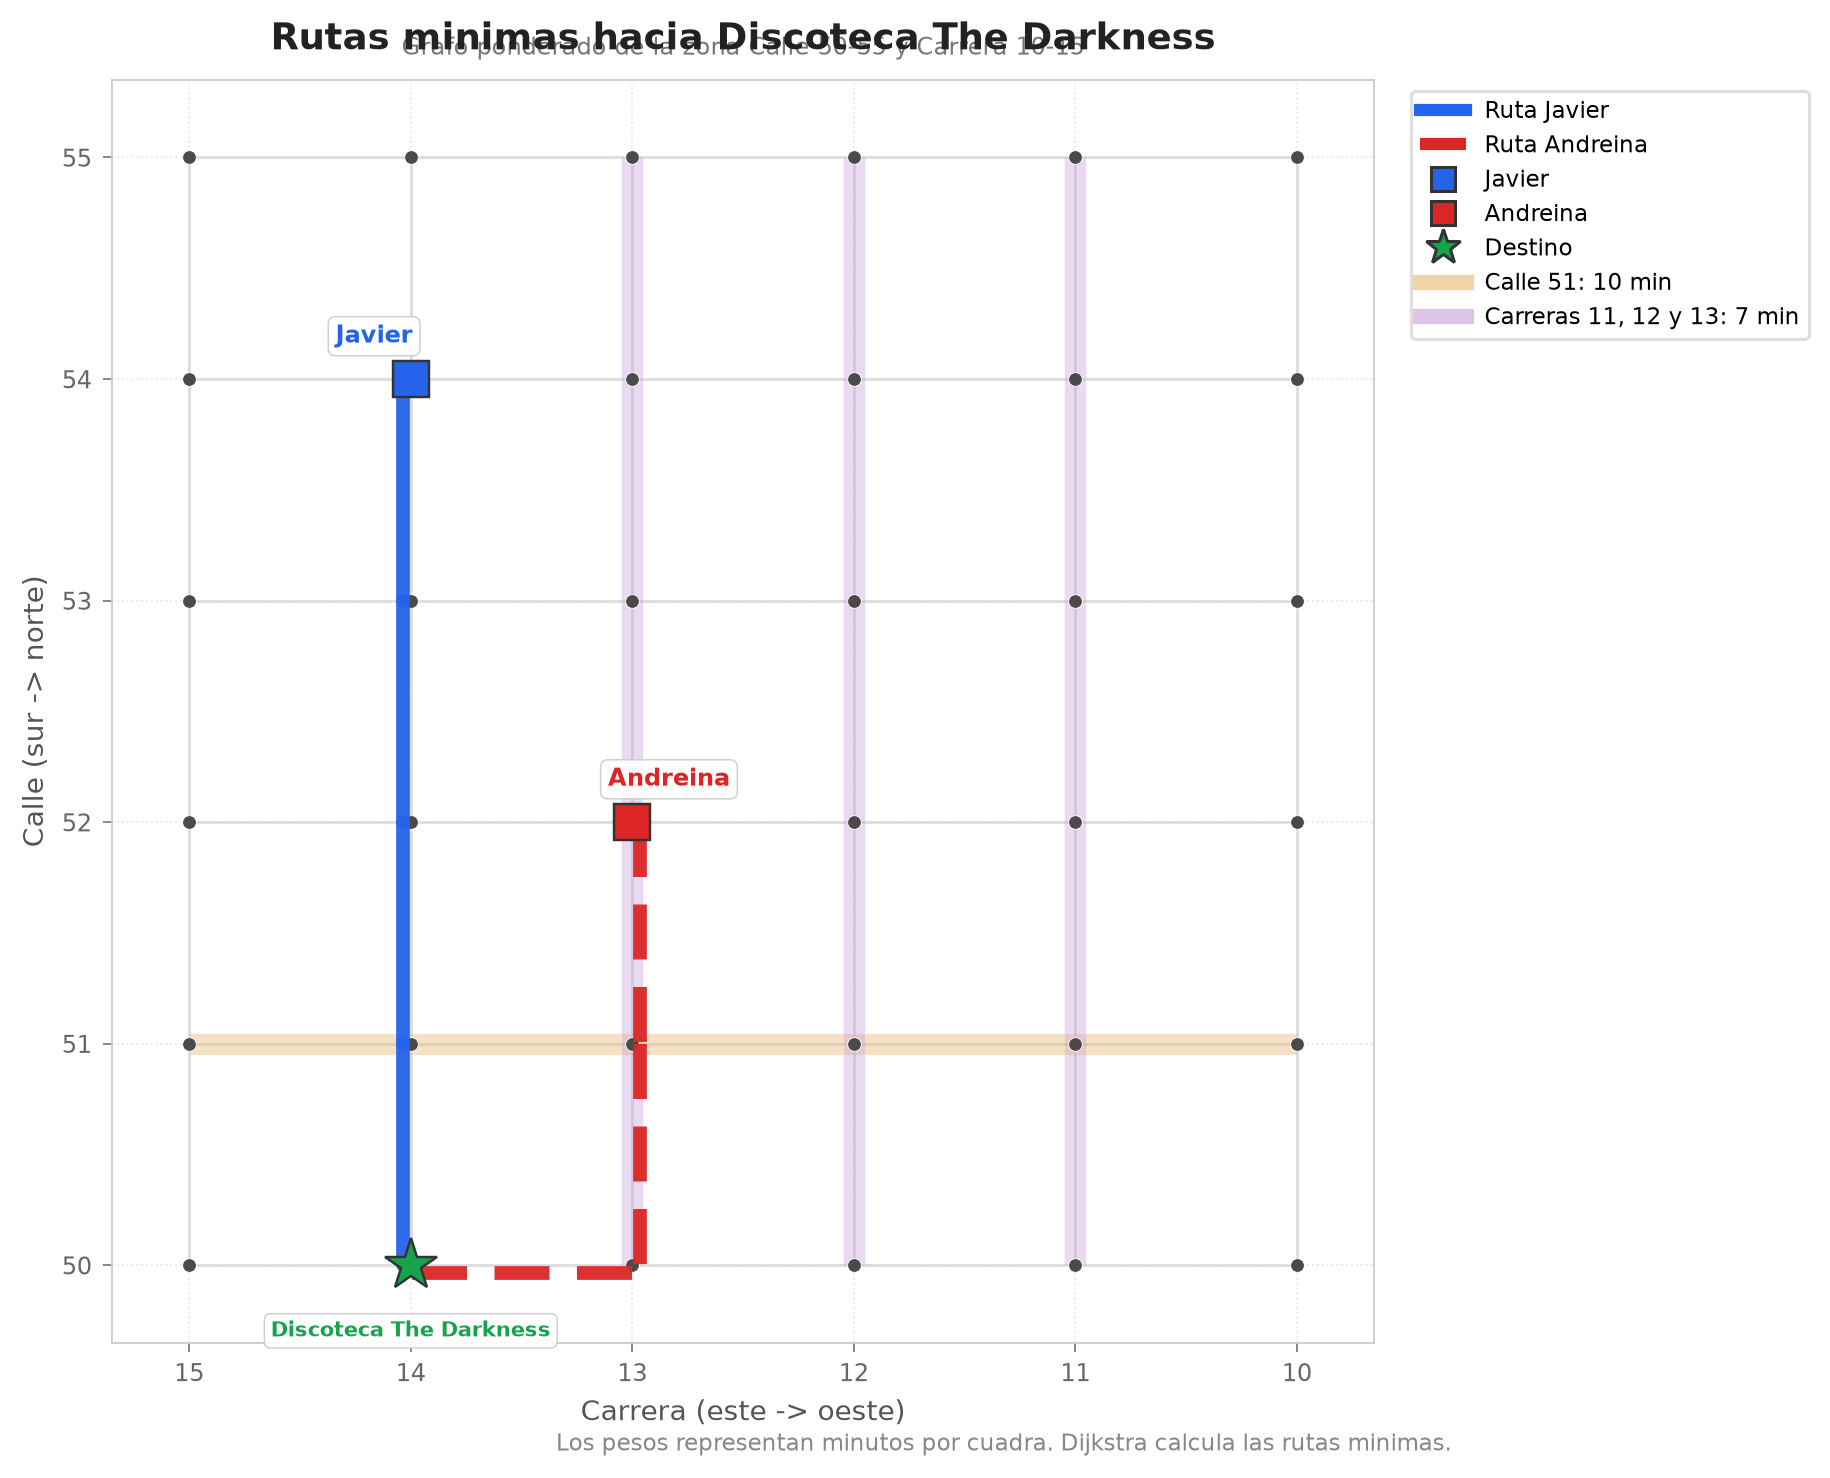
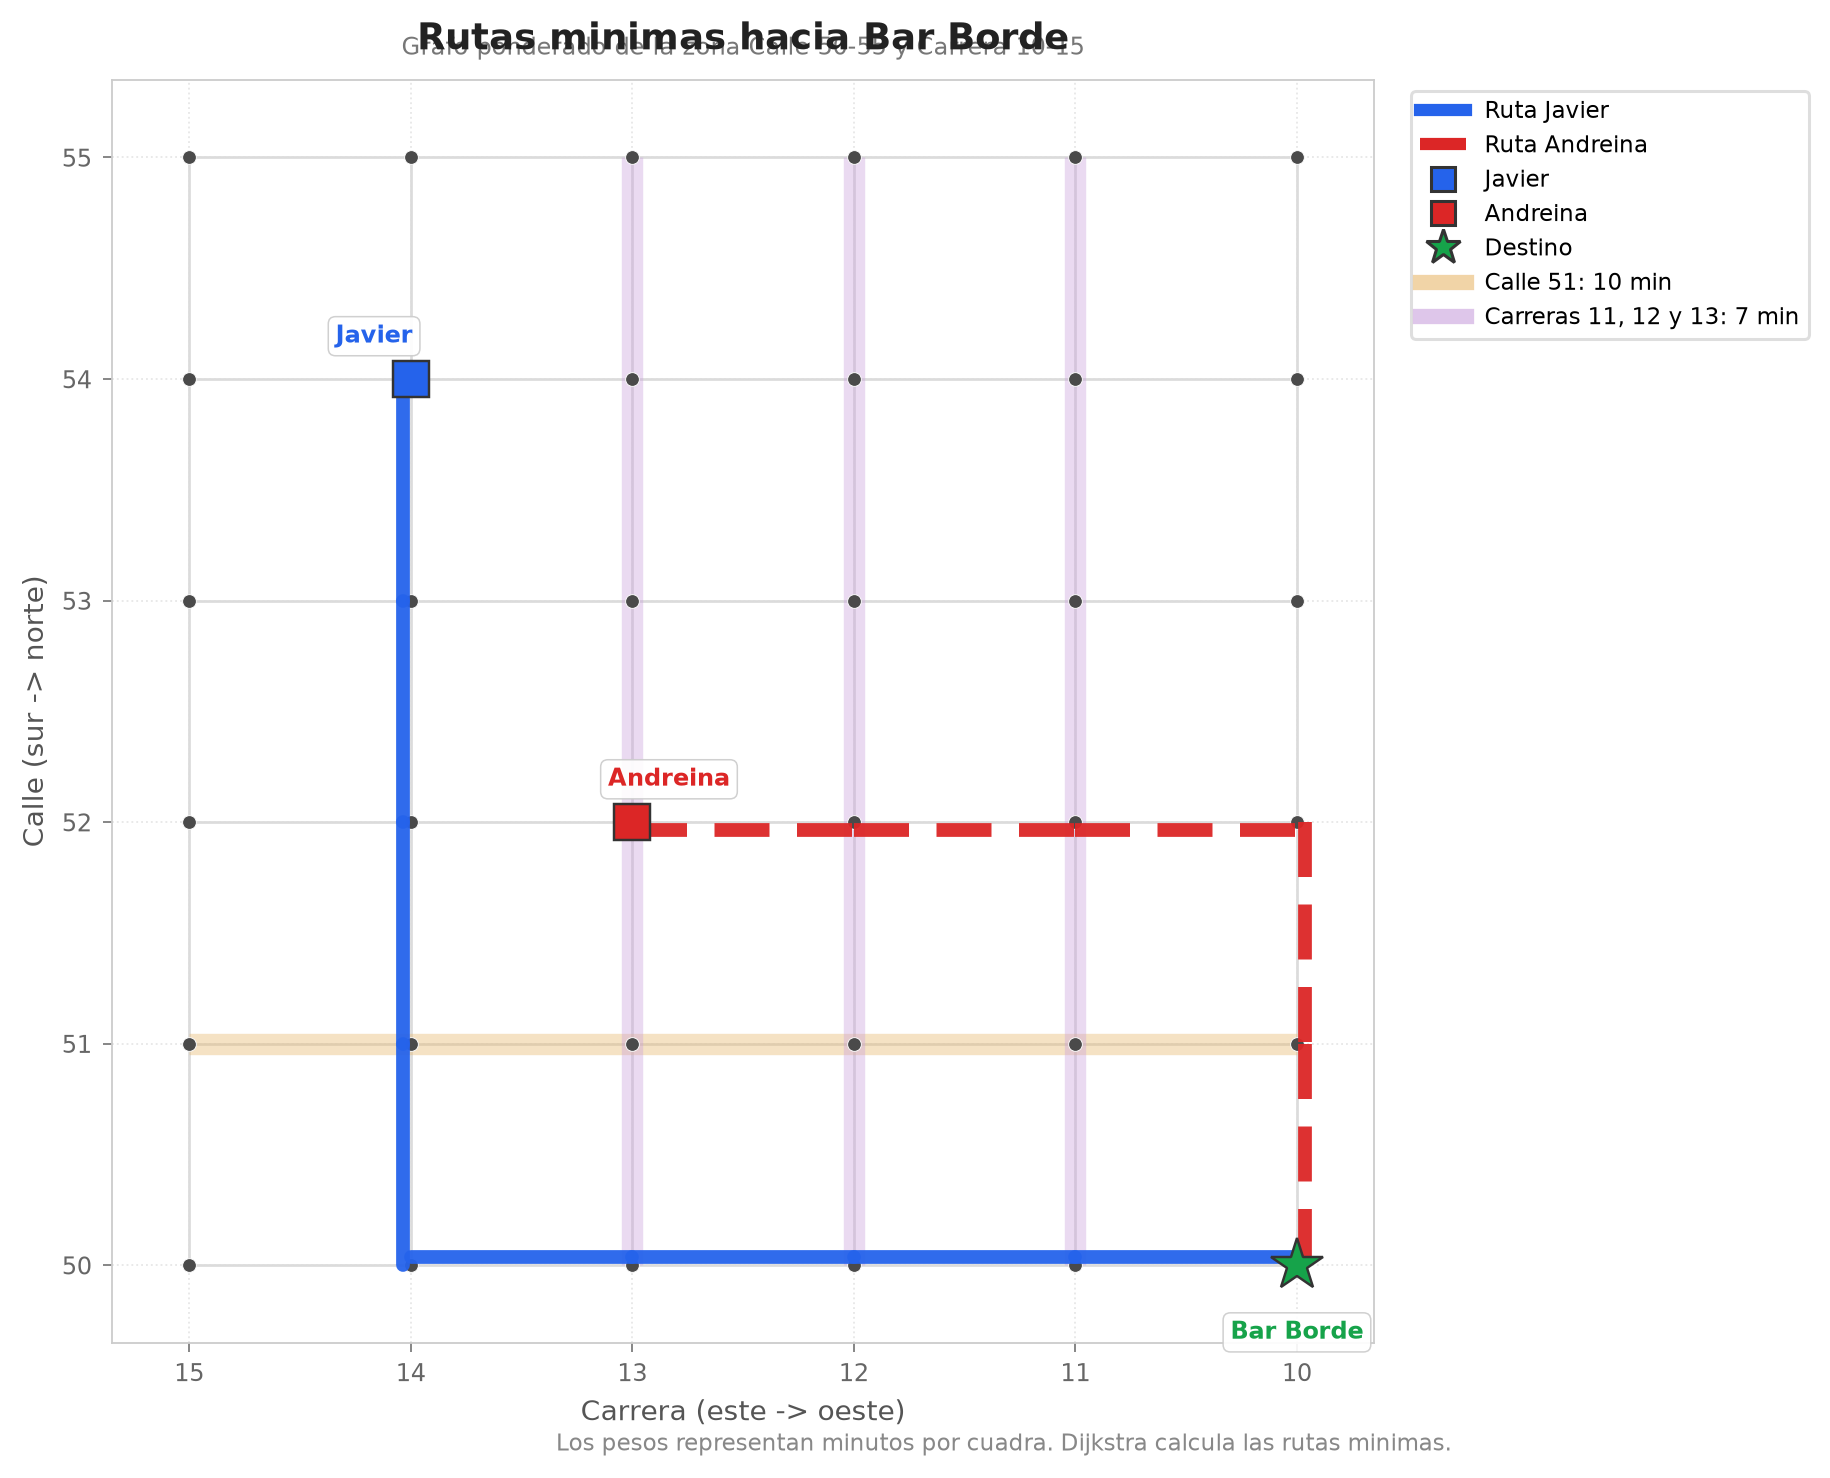
commit gabo

Changed region(s): [[0.1557, 0.5291, 0.7475, 0.9337], [0.1557, 0.0, 0.6541, 0.0311]]

diff --git a/_audit_contraejemplo.py b/_audit_contraejemplo.py
@@ -1,0 +1,183 @@
+"""
+Script temporal de auditoria: compara calcular_rutas_pareja (heuristica A/B)
+con busqueda exhaustiva de pares entre k-mejores rutas de cada persona.
+"""
+
+from itertools import product
+
+from datos import CONFIGURACION_BASE
+from dijkstra import (
+    calcular_ruta,
+    calcular_rutas_pareja,
+    obtener_aristas_de_ruta,
+    rutas_comparten_tramos,
+)
+from grafo import crear_grafo, reglas_desde_configuracion
+
+K = 8  # cantidad de mejores rutas por persona a considerar
+
+
+def construir_grafo():
+    reglas = reglas_desde_configuracion(CONFIGURACION_BASE)
+    return crear_grafo(
+        CONFIGURACION_BASE["calle_min"],
+        CONFIGURACION_BASE["calle_max"],
+        CONFIGURACION_BASE["carrera_min"],
+        CONFIGURACION_BASE["carrera_max"],
+        reglas,
+    )
+
+
+def k_mejores_rutas(grafo, origen, destino, k=K):
+    """
+    Encuentra hasta k rutas simples distintas ordenadas por costo,
+    bloqueando una arista de cada ruta encontrada para forzar alternativas.
+    """
+    rutas = []
+    vistos = set()
+    aristas_bloqueadas = set()
+
+    for _ in range(k):
+        tiempo, camino = calcular_ruta(grafo, origen, destino, aristas_bloqueadas)
+        if tiempo is None or not camino:
+            break
+        clave = tuple(camino)
+        if clave not in vistos:
+            vistos.add(clave)
+            rutas.append((tiempo, list(camino)))
+
+        # Bloquear una arista de la ruta minima actual para obtener la siguiente
+        bloqueo_agregado = False
+        for i in range(len(camino) - 1):
+            from dijkstra import arista_canonica
+
+            arista = arista_canonica(camino[i], camino[i + 1])
+            if arista not in aristas_bloqueadas:
+                aristas_bloqueadas.add(arista)
+                bloqueo_agregado = True
+                break
+        if not bloqueo_agregado:
+            break
+
+    return rutas
+
+
+def busqueda_exhaustiva(grafo, origen_j, origen_a, destino, k=K):
+    rutas_j = k_mejores_rutas(grafo, origen_j, destino, k)
+    rutas_a = k_mejores_rutas(grafo, origen_a, destino, k)
+
+    mejor = None
+    for tj, cj in rutas_j:
+        for ta, ca in rutas_a:
+            if rutas_comparten_tramos(cj, ca):
+                continue
+            total = tj + ta
+            candidato = {
+                "total": total,
+                "tiempo_javier": tj,
+                "tiempo_andreina": ta,
+                "camino_javier": cj,
+                "camino_andreina": ca,
+            }
+            if mejor is None or total < mejor["total"]:
+                mejor = candidato
+    return mejor, len(rutas_j), len(rutas_a)
+
+
+def generar_combinaciones():
+    cmin, cmax = CONFIGURACION_BASE["calle_min"], CONFIGURACION_BASE["calle_max"]
+    rmin, rmax = CONFIGURACION_BASE["carrera_min"], CONFIGURACION_BASE["carrera_max"]
+    javier = CONFIGURACION_BASE["javier"]
+    andreina = CONFIGURACION_BASE["andreina"]
+
+    destinos = [
+        (50, 14),
+        (54, 11),
+        (50, 12),
+        (55, 15),
+        (50, 10),
+        (55, 10),
+    ]
+
+    origenes = [javier, andreina, (54, 13), (52, 14), (53, 12), (51, 11)]
+
+    casos = set()
+    for dest in destinos:
+        casos.add((javier, andreina, dest))
+        for oj in origenes:
+            for oa in origenes:
+                if oj != oa:
+                    casos.add((oj, oa, dest))
+
+    return sorted(casos)
+
+
+def main():
+    grafo = construir_grafo()
+    contraejemplos = []
+    iguales = 0
+    sin_exhaustivo = 0
+
+    for origen_j, origen_a, destino in generar_combinaciones():
+        heuristica = calcular_rutas_pareja(grafo, origen_j, origen_a, destino)
+        total_h = (heuristica["tiempo_javier"] or 0) + (
+            heuristica["tiempo_andreina"] or 0
+        )
+        if heuristica["tiempo_javier"] is None or heuristica["tiempo_andreina"] is None:
+            continue
+
+        exhaustivo, nj, na = busqueda_exhaustiva(grafo, origen_j, origen_a, destino)
+        if exhaustivo is None:
+            sin_exhaustivo += 1
+            continue
+
+        total_e = exhaustivo["total"]
+        if total_e < total_h:
+            contraejemplos.append(
+                {
+                    "origen_javier": origen_j,
+                    "origen_andreina": origen_a,
+                    "destino": destino,
+                    "total_heuristica": total_h,
+                    "total_exhaustivo": total_e,
+                    "heuristica": heuristica,
+                    "exhaustivo": exhaustivo,
+                    "rutas_j_exploradas": nj,
+                    "rutas_a_exploradas": na,
+                }
+            )
+        else:
+            iguales += 1
+
+    print(f"Casos comparados (con solucion exhaustiva): {iguales + len(contraejemplos)}")
+    print(f"Casos sin par valido en k={K} rutas: {sin_exhaustivo}")
+    print(f"Contraejemplos encontrados: {len(contraejemplos)}")
+
+    if contraejemplos:
+        c = min(contraejemplos, key=lambda x: x["total_exhaustivo"] - x["total_heuristica"])
+        print("\n=== CONTRAEJEMPLO ===")
+        print(f"Javier origen: {c['origen_javier']}")
+        print(f"Andreina origen: {c['origen_andreina']}")
+        print(f"Destino: {c['destino']}")
+        print(f"\nHeuristica A/B - total {c['total_heuristica']} min")
+        print(f"  Javier ({c['heuristica']['tiempo_javier']}): {c['heuristica']['camino_javier']}")
+        print(
+            f"  Andreina ({c['heuristica']['tiempo_andreina']}): "
+            f"{c['heuristica']['camino_andreina']}"
+        )
+        print(f"\nExhaustivo k={K} - total {c['total_exhaustivo']} min")
+        print(f"  Javier ({c['exhaustivo']['tiempo_javier']}): {c['exhaustivo']['camino_javier']}")
+        print(
+            f"  Andreina ({c['exhaustivo']['tiempo_andreina']}): "
+            f"{c['exhaustivo']['camino_andreina']}"
+        )
+        print(f"\nAhorro exhaustivo: {c['total_heuristica'] - c['total_exhaustivo']} min")
+    else:
+        print(
+            f"\nNo se encontro contraejemplo con k={K} mejores rutas por persona "
+            f"en la cuadricula del enunciado."
+        )
+
+
+if __name__ == "__main__":
+    main()

diff --git a/datos.py b/datos.py
@@ -1,27 +1,66 @@
-"""
-Datos base del enunciado: configuracion de la zona, pesos y establecimientos.
-Estos valores son el punto de partida; el usuario puede modificarlos desde el menu.
-"""
-
-CONFIGURACION_BASE = {
-    "calle_min": 50,
-    "calle_max": 55,
-    "carrera_min": 10,
-    "carrera_max": 15,
-    "peso_base": 5,
-    "calles_especiales": {51: 10},
-    "carreras_especiales": {11: 7, 12: 7, 13: 7},
-    "javier": (54, 14),
-    "andreina": (52, 13),
-}
-
-ESTABLECIMIENTOS = [
-    {"nombre": "Discoteca The Darkness", "calle": 50, "carrera": 14},
-    {"nombre": "Bar La Pasión", "calle": 54, "carrera": 11},
-    {"nombre": "Cervecería Mi Rolita", "calle": 50, "carrera": 12},
-]
-
-DESTINO_CASO_BASE = {
-    "nombre": "Discoteca The Darkness",
-    "ubicacion": (50, 14),
-}
+"""
+Datos base del enunciado: configuracion de la zona, pesos y establecimientos.
+
+Los valores se cargan desde config.json en tiempo de ejecucion.
+El usuario puede modificarlos adicionalmente desde el menu de consola.
+"""
+
+import json
+import os
+
+
+def _ruta_config():
+    """Ruta de config.json relativa a la ubicacion de este modulo."""
+    return os.path.join(os.path.dirname(__file__), "config.json")
+
+
+def _cargar_config():
+    """Lee y parsea config.json desde disco."""
+    with open(_ruta_config(), encoding="utf-8") as archivo:
+        return json.load(archivo)
+
+
+def _convertir_configuracion_base(datos):
+    """
+    Convierte el JSON a la estructura esperada por el resto del proyecto.
+
+    - javier/andreina: listas JSON -> tuplas
+    - calles_especiales/carreras_especiales: claves str -> int
+    """
+    return {
+        "calle_min": datos["calle_min"],
+        "calle_max": datos["calle_max"],
+        "carrera_min": datos["carrera_min"],
+        "carrera_max": datos["carrera_max"],
+        "peso_base": datos["peso_base"],
+        "calles_especiales": {
+            int(calle): minutos for calle, minutos in datos["calles_especiales"].items()
+        },
+        "carreras_especiales": {
+            int(carrera): minutos
+            for carrera, minutos in datos["carreras_especiales"].items()
+        },
+        "javier": tuple(datos["javier"]),
+        "andreina": tuple(datos["andreina"]),
+    }
+
+
+def _convertir_establecimientos(datos):
+    """Convierte la lista de establecimientos del JSON."""
+    return [dict(establecimiento) for establecimiento in datos["establecimientos"]]
+
+
+def _convertir_destino_caso_base(datos):
+    """Convierte el destino del caso base del JSON."""
+    destino = datos["destino_caso_base"]
+    return {
+        "nombre": destino["nombre"],
+        "ubicacion": (destino["calle"], destino["carrera"]),
+    }
+
+
+_config = _cargar_config()
+
+CONFIGURACION_BASE = _convertir_configuracion_base(_config)
+ESTABLECIMIENTOS = _convertir_establecimientos(_config)
+DESTINO_CASO_BASE = _convertir_destino_caso_base(_config)
